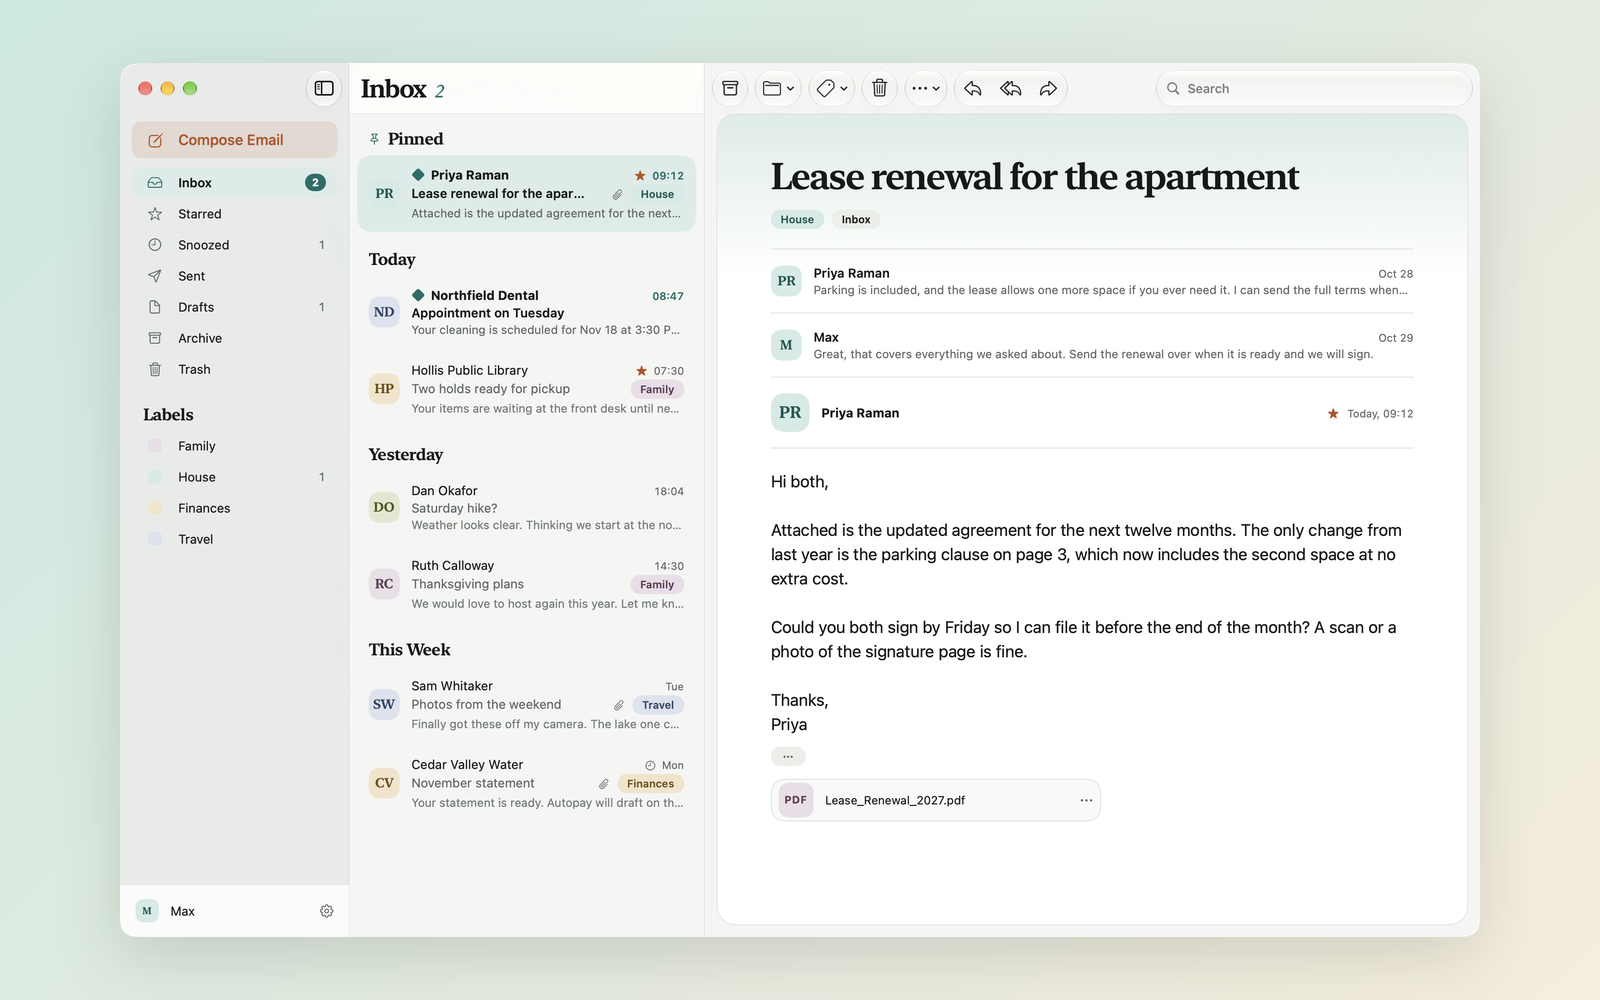
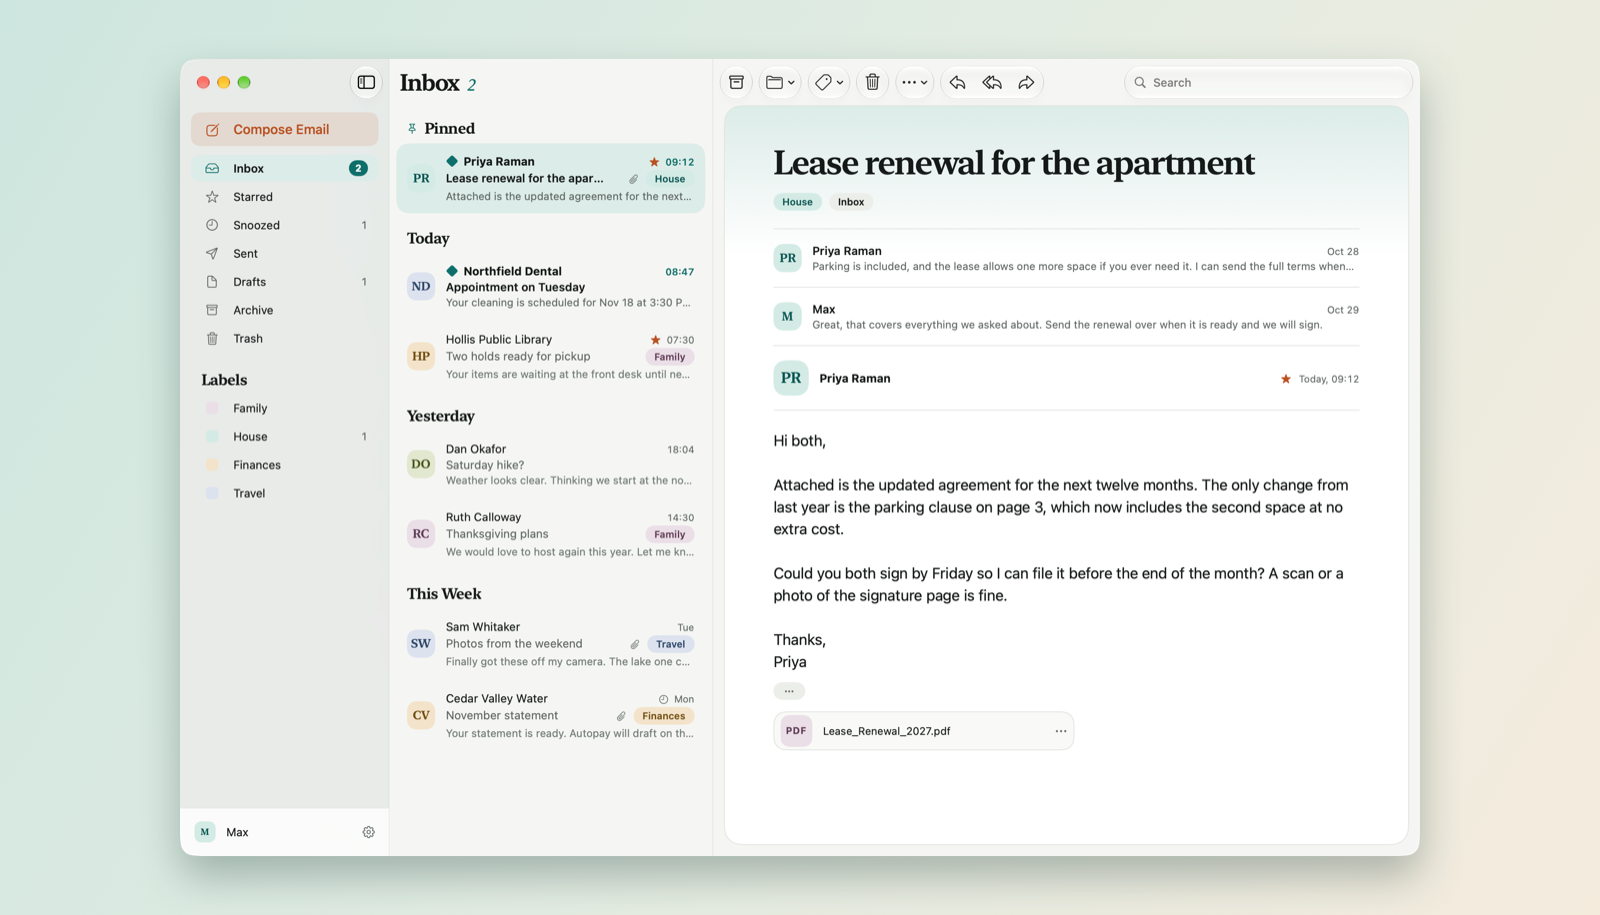
Add Scripts/screenshots.sh to regenerate README images and the social preview
Mac window is captured from the app's own window number, iPhone shots come from the simulator, and Scripts/frame.swift adds rounded corners and shadow without dependencies. Retakes hero, iPhone and social images from the current build.

diff --git a/Scripts/frame.swift b/Scripts/frame.swift
@@ -1,0 +1,130 @@
+// Frames raw screenshots for the README and the social preview. No dependencies beyond
+// the system frameworks. Built and run by Scripts/screenshots.sh:
+//
+//   frame hero    <mac.png> <out.png>
+//   frame iphone  <out.png> <phone1.png> <phone2.png> <phone3.png>
+//   frame social  <mac.png> <icon.png> <out.png>
+import AppKit
+import CoreGraphics
+import ImageIO
+import UniformTypeIdentifiers
+
+let space = CGColorSpace(name: CGColorSpace.sRGB)!
+
+func rgb(_ hex: UInt32, _ alpha: CGFloat = 1) -> CGColor {
+    CGColor(
+        colorSpace: space,
+        components: [CGFloat((hex >> 16) & 255) / 255, CGFloat((hex >> 8) & 255) / 255, CGFloat(hex & 255) / 255, alpha])!
+}
+
+func load(_ path: String) -> CGImage {
+    guard let source = CGImageSourceCreateWithURL(URL(fileURLWithPath: path) as CFURL, nil),
+        let image = CGImageSourceCreateImageAtIndex(source, 0, nil)
+    else { fatalError("cannot read \(path)") }
+    return image
+}
+
+func save(_ image: CGImage, _ path: String) {
+    guard let destination = CGImageDestinationCreateWithURL(URL(fileURLWithPath: path) as CFURL, UTType.png.identifier as CFString, 1, nil)
+    else { fatalError("cannot write \(path)") }
+    CGImageDestinationAddImage(destination, image, nil)
+    guard CGImageDestinationFinalize(destination) else { fatalError("cannot write \(path)") }
+}
+
+func canvas(_ width: Int, _ height: Int, _ draw: (CGContext) -> Void) -> CGImage {
+    let context = CGContext(
+        data: nil, width: width, height: height, bitsPerComponent: 8, bytesPerRow: 0, space: space,
+        bitmapInfo: CGImageAlphaInfo.premultipliedLast.rawValue)!
+    context.interpolationQuality = .high
+    context.setShouldAntialias(true)
+    draw(context)
+    return context.makeImage()!
+}
+
+/// The soft mint-to-cream wash behind the README images.
+func background(_ c: CGContext, _ width: Int, _ height: Int) {
+    let gradient = CGGradient(colorsSpace: space, colors: [rgb(0xCDE6DF), rgb(0xE3ECE2), rgb(0xF4EBDD)] as CFArray, locations: [0, 0.5, 1])!
+    c.drawLinearGradient(gradient, start: CGPoint(x: 0, y: CGFloat(height)), end: CGPoint(x: CGFloat(width), y: 0), options: [.drawsAfterEndLocation, .drawsBeforeStartLocation])
+}
+
+func roundedPath(_ rect: CGRect, _ radius: CGFloat) -> CGPath {
+    CGPath(roundedRect: rect, cornerWidth: radius, cornerHeight: radius, transform: nil)
+}
+
+/// Draws `image` into `rect` with a soft shadow that follows the image's own alpha. With
+/// `radius`, the image is first clipped to a rounded rectangle in a transparent canvas; the
+/// clip is anti-aliased, so the corners have no fringe.
+func place(_ c: CGContext, _ image: CGImage, in rect: CGRect, radius: CGFloat?, shadow: CGFloat) {
+    var shaped = image
+    if let radius {
+        let scale = CGFloat(image.width) / rect.width
+        shaped = canvas(image.width, image.height) { k in
+            k.addPath(roundedPath(CGRect(x: 0, y: 0, width: image.width, height: image.height), radius * scale))
+            k.clip()
+            k.draw(image, in: CGRect(x: 0, y: 0, width: image.width, height: image.height))
+        }
+    }
+    c.saveGState()
+    c.setShadow(offset: CGSize(width: 0, height: -shadow * 0.45), blur: shadow, color: rgb(0x0B2B29, 0.30))
+    c.draw(shaped, in: rect)
+    c.restoreGState()
+}
+
+let args = CommandLine.arguments
+switch args.dropFirst().first {
+case "hero":
+    // The Mac window's own corners are transparent already, so it is not clipped again.
+    let mac = load(args[2])
+    let width = 1600, height = 915
+    let w: CGFloat = 1240
+    let h = w * CGFloat(mac.height) / CGFloat(mac.width)
+    let out = canvas(width, height) { c in
+        background(c, width, height)
+        place(c, mac, in: CGRect(x: (CGFloat(width) - w) / 2, y: (CGFloat(height) - h) / 2, width: w, height: h), radius: nil, shadow: 44)
+    }
+    save(out, args[3])
+case "iphone":
+    let phones = args[3...].map(load)
+    let width = 1600, height = 1000
+    let w: CGFloat = 395
+    let gap: CGFloat = 70
+    let out = canvas(width, height) { c in
+        background(c, width, height)
+        let total = w * CGFloat(phones.count) + gap * CGFloat(phones.count - 1)
+        for (i, phone) in phones.enumerated() {
+            let h = w * CGFloat(phone.height) / CGFloat(phone.width)
+            let rect = CGRect(x: (CGFloat(width) - total) / 2 + CGFloat(i) * (w + gap), y: (CGFloat(height) - h) / 2, width: w, height: h)
+            place(c, phone, in: rect, radius: w * 0.135, shadow: 36)
+        }
+    }
+    save(out, args[2])
+case "social":
+    let mac = load(args[2]), icon = load(args[3])
+    let width = 1280, height = 640
+    let out = canvas(width, height) { c in
+        let gradient = CGGradient(colorsSpace: space, colors: [rgb(0xF7F3EA), rgb(0xEFEDE1), rgb(0xD3E7E0)] as CFArray, locations: [0, 0.55, 1])!
+        c.drawLinearGradient(gradient, start: CGPoint(x: 0, y: CGFloat(height)), end: CGPoint(x: CGFloat(width), y: 0), options: [.drawsAfterEndLocation, .drawsBeforeStartLocation])
+        // Icon and name, left.
+        let side: CGFloat = 236
+        let iconRect = CGRect(x: 118, y: 270, width: side, height: side)
+        place(c, icon, in: iconRect, radius: nil, shadow: 30)
+        let title = NSAttributedString(
+            string: "Quill",
+            attributes: [
+                .font: NSFont(name: "NewYorkMedium-Bold", size: 74) ?? NSFont(name: "Georgia-Bold", size: 74)!,
+                .foregroundColor: NSColor(cgColor: rgb(0x0B6E69))!,
+            ])
+        let line = CTLineCreateWithAttributedString(title)
+        let bounds = CTLineGetBoundsWithOptions(line, [])
+        c.textPosition = CGPoint(x: iconRect.midX - bounds.width / 2, y: 170)
+        CTLineDraw(line, c)
+        // Window, right.
+        let w: CGFloat = 760
+        let h = w * CGFloat(mac.height) / CGFloat(mac.width)
+        place(c, mac, in: CGRect(x: 440, y: (CGFloat(height) - h) / 2, width: w, height: h), radius: nil, shadow: 36)
+    }
+    save(out, args[4])
+default:
+    FileHandle.standardError.write(Data("usage: frame hero|iphone|social ...\n".utf8))
+    exit(64)
+}

diff --git a/QuillKit/Sources/QuillKit/Features/Root/WindowSnapshot.swift b/QuillKit/Sources/QuillKit/Features/Root/WindowSnapshot.swift
@@ -1,0 +1,34 @@
+#if os(macOS)
+import AppKit
+
+/// Prepares the window for a screenshot taken from outside: sizes and places it, brings it
+/// to the front so the title bar is in its active colors, and writes its window number to
+/// the file named by `-QuillSnapshot <path>`. The caller captures that window with
+/// `screencapture -l` and then quits the app. Used by Scripts/screenshots.sh.
+@MainActor
+enum WindowSnapshot {
+    static let size = CGSize(width: 1400, height: 900)
+
+    static func prepare(reportingTo path: String) {
+        Task { @MainActor in
+            func mainWindow() -> NSWindow? {
+                NSApp.windows.filter { $0.isVisible && !($0 is NSPanel) }
+                    .max { $0.frame.width * $0.frame.height < $1.frame.width * $1.frame.height }
+            }
+            for _ in 0..<100 where mainWindow() == nil {
+                try? await Task.sleep(for: .milliseconds(100))
+            }
+            guard let window = mainWindow() else { exit(2) }
+            window.setContentSize(size)
+            if let screen = window.screen ?? NSScreen.main {
+                let area = screen.visibleFrame
+                window.setFrameTopLeftPoint(NSPoint(x: area.minX + 40, y: area.maxY - 10))
+            }
+            NSApp.activate(ignoringOtherApps: true)
+            window.makeKeyAndOrderFront(nil)
+            try? await Task.sleep(for: .seconds(2.5))
+            try? "\(window.windowNumber)".write(toFile: path, atomically: true, encoding: .utf8)
+        }
+    }
+}
+#endif

diff --git a/QuillKit/Sources/QuillKit/Features/Root/QuillAppDelegate.swift b/QuillKit/Sources/QuillKit/Features/Root/QuillAppDelegate.swift
@@ -26,6 +26,12 @@ import AppKit
 /// Receives what the system only tells an app delegate: the device's push token, and
 /// pushes that arrive while Quill is running.
 public final class QuillAppDelegate: NSObject, NSApplicationDelegate {
+    public func applicationDidFinishLaunching(_ notification: Notification) {
+        if let path = LaunchOptions().snapshotPath {
+            WindowSnapshot.prepare(reportingTo: path)
+        }
+    }
+
     public func application(_ application: NSApplication, didRegisterForRemoteNotificationsWithDeviceToken deviceToken: Data) {
         PushDevice.shared.received(deviceToken)
     }

diff --git a/QuillKit/Sources/QuillKit/Features/Root/LaunchOptions.swift b/QuillKit/Sources/QuillKit/Features/Root/LaunchOptions.swift
@@ -9,9 +9,12 @@ struct LaunchOptions {
 
     var screen: Screen?
     var colorScheme: ColorScheme?
+    /// Mac only: a file the app writes its window number to once the window is ready to capture. Used by Scripts/screenshots.sh.
+    var snapshotPath: String?
 
     init(defaults: UserDefaults = .standard) {
         screen = defaults.string(forKey: "QuillScreen").flatMap(Screen.init)
+        snapshotPath = defaults.string(forKey: "QuillSnapshot")
         colorScheme =
             switch defaults.string(forKey: "QuillAppearance") {
             case "dark": .dark

diff --git a/README.md b/README.md
@@ -144,6 +144,10 @@ Every color, type role, spacing step and radius comes from the Tokens page of th
 and lives in `Design/`. Views use `Palette`, `Spacing`, `Radius`, `Motion` and
 `.textRole(_:)` instead of literal values.
 
+## Screenshots
+
+`Scripts/screenshots.sh` retakes `docs/screenshots/` and `docs/social-preview.png` from the sample mailbox (`mac`, `iphone` or `social` for just one). It runs the app in the existing Harmony iPhone simulator and captures the Mac window with `screencapture`, which needs Screen Recording allowed for your terminal.
+
 ## Testing
 
 ```sh
